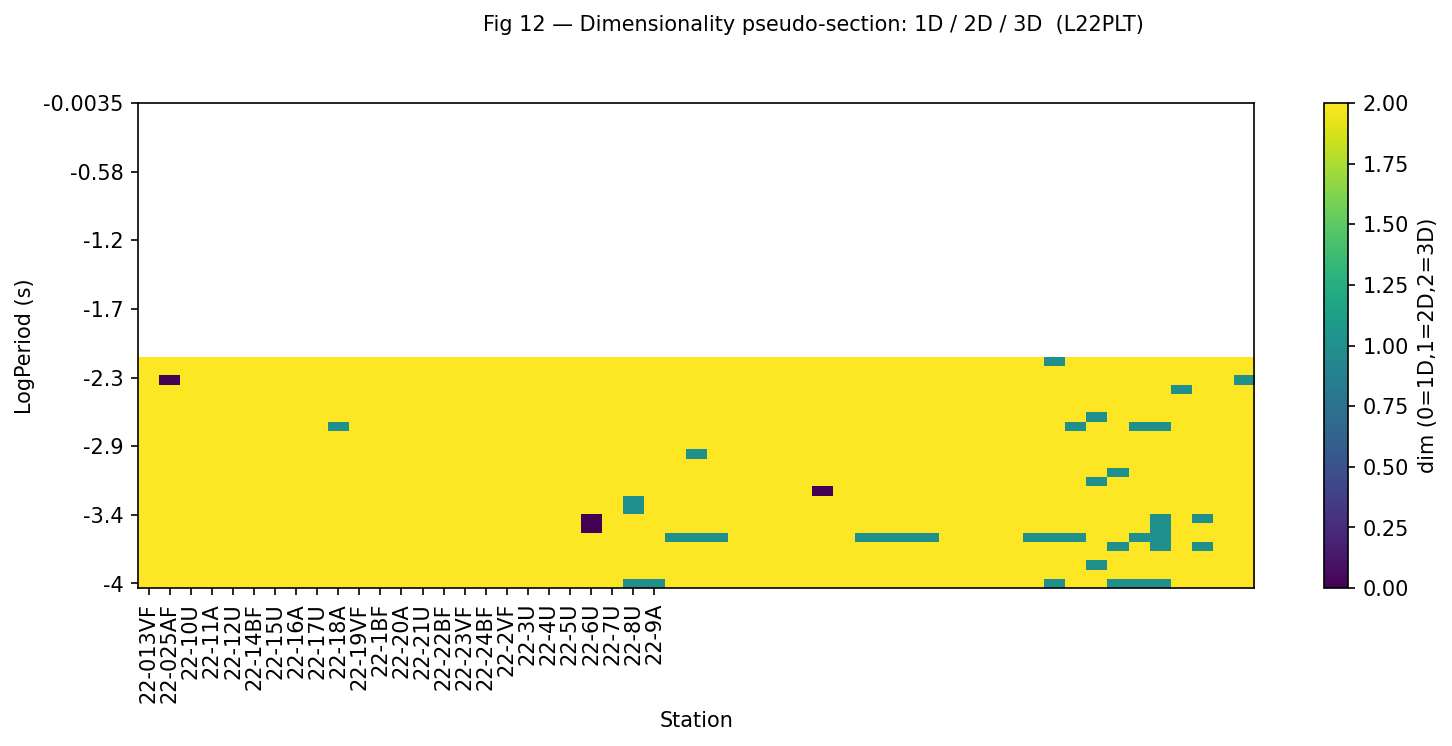
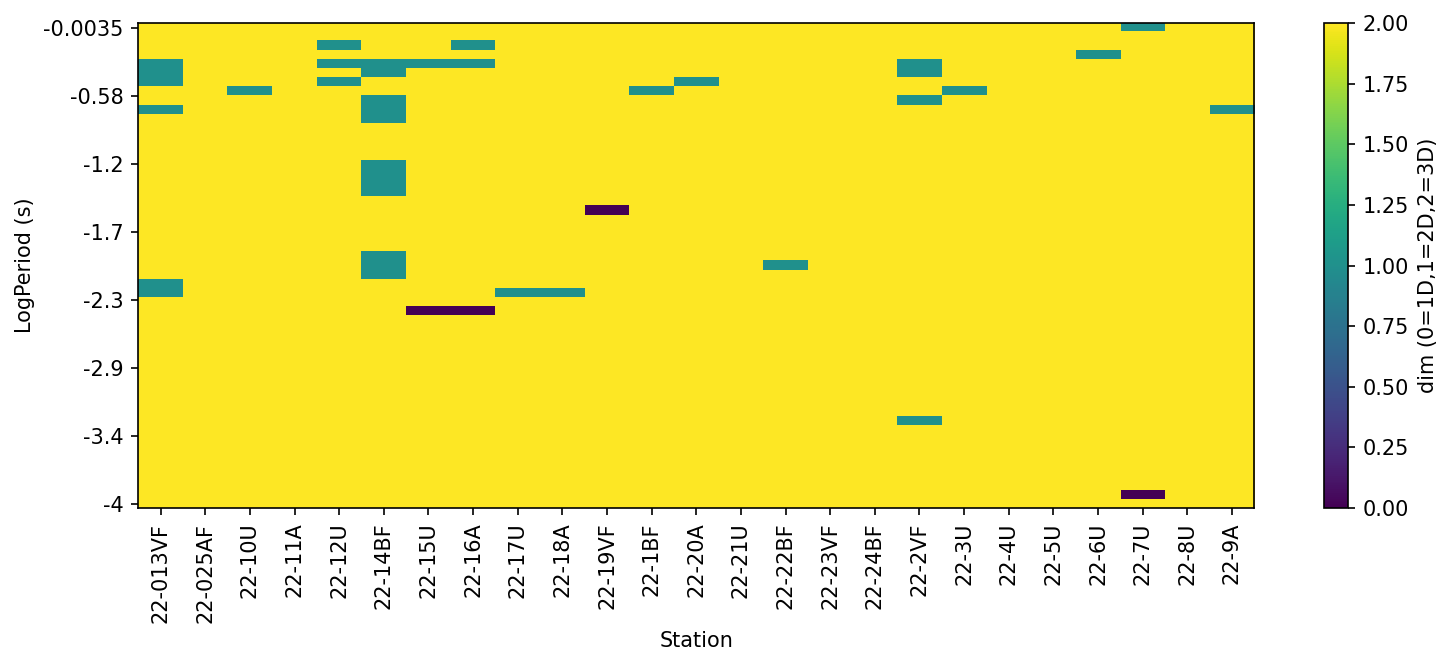
fix transpose bug in all remaining imshow psection functions
Same root cause as the earlier frequency.py / _draw_dim_grid fix:
piv.to_numpy().T makes shape (n_st, n_logp), so imshow maps x to
n_logp periods while set_xticks placed only n_st labels — station
names crammed into the left half.

Remove .T (keep shape n_logp × n_st) and correct the shape indices
used for xtick / ytick linspace in every affected function:

tensor.py
  - plot_phase_tensor_skewmap   (L903)
  - plot_ellipticity_psection   (L1009, L1018, L1020)
  - plot_dimensionality_psection (L1072, L1081, L1083)
  - plot_dimensionality_grid    (L1960, L1973)

dimensionality.py
  - plot_dim_confidence_grid    (D/C arrays + L671, L673)

diff --git a/pycsamt/emtools/tensor.py b/pycsamt/emtools/tensor.py
@@ -900,7 +900,7 @@ def plot_phase_tensor_skewmap(
         aggfunc=agg,
     )
     piv = piv.sort_index()
-    Z = piv.to_numpy(dtype=float).T
+    Z = piv.to_numpy(dtype=float)        # (n_logp, n_st) — no transpose
     if ax is None:
         _, ax = plt.subplots(figsize=figsize)
     im = ax.imshow(
@@ -1006,7 +1006,7 @@ def plot_ellipticity_psection(
         aggfunc=agg,
     )
     piv = piv.sort_index()
-    Z = piv.to_numpy(dtype=float).T
+    Z = piv.to_numpy(dtype=float)        # (n_logp, n_st) — no transpose
     im = ax.imshow(
         Z,
         aspect="auto",
@@ -1015,9 +1015,9 @@ def plot_ellipticity_psection(
     )
     ax.set_xlabel("Station")
     ax.set_ylabel("LogPeriod (s)")
-    ax.set_xticks(np.arange(Z.shape[0]))
+    ax.set_xticks(np.arange(Z.shape[1]))          # shape[1] = n_stations
     ax.set_xticklabels(piv.columns, rotation=90)
-    yt = np.linspace(0, Z.shape[1] - 1, num=min(8, Z.shape[1]))
+    yt = np.linspace(0, Z.shape[0] - 1, num=min(8, Z.shape[0]))  # shape[0] = n_logp
     yvals = np.linspace(piv.index.min(), piv.index.max(),
                         num=min(8, len(piv.index)))
     ax.set_yticks(yt)
@@ -1069,7 +1069,7 @@ def plot_dimensionality_psection(
         aggfunc="median",
     )
     piv = piv.sort_index()
-    Z = piv.to_numpy(dtype=float).T
+    Z = piv.to_numpy(dtype=float)        # (n_logp, n_st) — no transpose
     im = ax.imshow(
         Z,
         aspect="auto",
@@ -1078,9 +1078,9 @@ def plot_dimensionality_psection(
     )
     ax.set_xlabel("Station")
     ax.set_ylabel("LogPeriod (s)")
-    ax.set_xticks(np.arange(Z.shape[0]))
+    ax.set_xticks(np.arange(Z.shape[1]))          # shape[1] = n_stations
     ax.set_xticklabels(piv.columns, rotation=90)
-    yt = np.linspace(0, Z.shape[1] - 1, num=min(8, Z.shape[1]))
+    yt = np.linspace(0, Z.shape[0] - 1, num=min(8, Z.shape[0]))  # shape[0] = n_logp
     yvals = np.linspace(piv.index.min(), piv.index.max(),
                         num=min(8, len(piv.index)))
     ax.set_yticks(yt)
@@ -1957,7 +1957,7 @@ def plot_dimensionality_grid(
         aggfunc="median",
     )
     piv = piv.sort_index()
-    Z = piv.to_numpy(dtype=float).T
+    Z = piv.to_numpy(dtype=float)        # (n_logp, n_st) — no transpose
     if ax is None:
         _, ax = plt.subplots(figsize=figsize)
     im = ax.imshow(
@@ -1970,7 +1970,7 @@ def plot_dimensionality_grid(
     ax.set_ylabel("LogPeriod (s)")
     ax.set_xticks(np.arange(len(piv.columns)))
     ax.set_xticklabels(piv.columns, rotation=90)
-    yt = np.linspace(0, Z.shape[1] - 1, num=min(8, Z.shape[1]))
+    yt = np.linspace(0, Z.shape[0] - 1, num=min(8, Z.shape[0]))  # shape[0] = n_logp
     yv = np.linspace(piv.index.min(), piv.index.max(),
                      num=min(8, len(piv.index)))
     ax.set_yticks(yt)

diff --git a/pycsamt/emtools/dimensionality.py b/pycsamt/emtools/dimensionality.py
@@ -642,8 +642,10 @@ def plot_dim_confidence_grid(
         values="conf",
         aggfunc="median",
     ).reindex(index=piv_d.index, columns=piv_d.columns)
-    D = piv_d.to_numpy(dtype=float).T
-    C = piv_c.to_numpy(dtype=float).T
+    # piv_d / piv_c have shape (n_logp, n_stations); no transpose so that
+    # imshow maps x → stations, y → log-periods.
+    D = piv_d.to_numpy(dtype=float)
+    C = piv_c.to_numpy(dtype=float)
     # map classes to colors; alpha from confidence
     pal = {
         0: (0.20, 0.60, 0.20),
@@ -668,9 +670,9 @@ def plot_dim_confidence_grid(
     )
     ax.set_xlabel("Station")
     ax.set_ylabel("LogPeriod (s)")
-    ax.set_xticks(np.arange(D.shape[0]))
+    ax.set_xticks(np.arange(D.shape[1]))          # shape[1] = n_stations
     ax.set_xticklabels(piv_d.columns, rotation=90)
-    yt = np.linspace(0, D.shape[1] - 1, num=min(8, D.shape[1]))
+    yt = np.linspace(0, D.shape[0] - 1, num=min(8, D.shape[0]))  # shape[0] = n_logp
     yv = np.linspace(piv_d.index.min(), piv_d.index.max(),
                      num=min(8, len(piv_d.index)))
     ax.set_yticks(yt)
